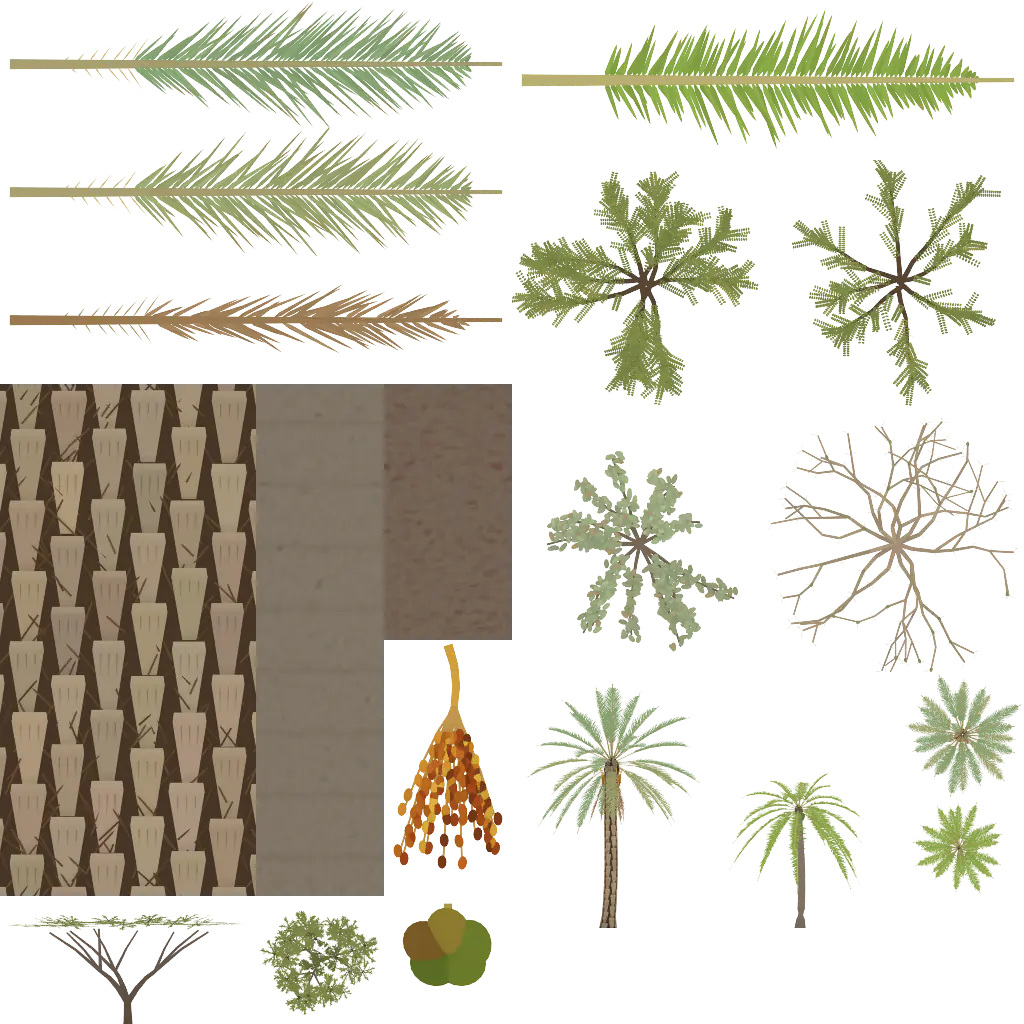
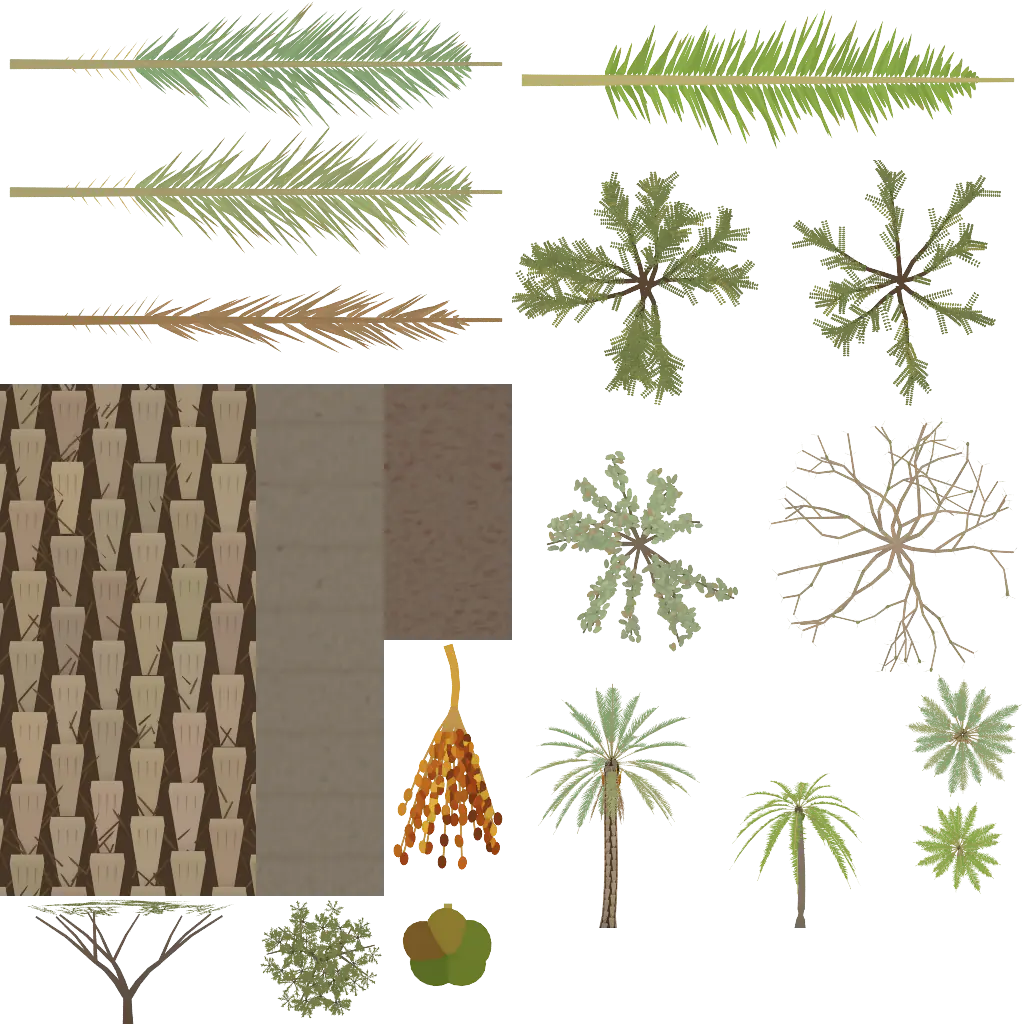
GD3: lighter sun-faded palm greens, an evenly spread flat acacia crown, octagon spray cards (less overdraw)
Claude-Session: https://claude.ai/code/session_01AfPbHWRnbNkqsFSA7HPjiC

Changed region(s): [[0.25, 0.875, 0.375, 1.0], [0.0312, 0.875, 0.2188, 0.9688]]

diff --git a/web/tools/blender/desertveg/desert_veg.py b/web/tools/blender/desertveg/desert_veg.py
@@ -298,7 +298,7 @@ def spray_card(rng, kind):
                 ang2 = math.atan2(dd.y, dd.x) + (rng.random() - 0.5) * 2.2
                 dpin = Vector((math.cos(ang2), math.sin(ang2), 0))
                 Lp = 0.032 + rng.random() * 0.026
-                c = jit(lin(0x7f8c4a), rng, 0.16)
+                c = jit(lin(0x77824c), rng, 0.16)
                 if rng.random() < 0.12:
                     c = mixc(c, lin(0xa09a50), 0.6)
                 npair = 9 + int(rng.random() * 5)
@@ -1053,33 +1053,33 @@ def acacia(lp, rng, H, R, lod, young=False):
     def nrm(p):
         return (p - center).normalized() + Z * 0.6
 
-    # flat crown: clumps of horizontal sprays at the branch tips, a ring of tilted sprays round the rim, a few under
-    per = 3 if lod == 0 else 1
-    for tp in tips:
-        for k in range(per):
-            ang = rng.random() * math.tau
-            c = tp + Vector((math.cos(ang), math.sin(ang), 0)) * (0.05 + rng.random() * 0.08) + Z * (0.045 + rng.random() * 0.02)
-            sz = R * (0.62 + rng.random() * 0.22) * (1.15 if lod else 1.0)
-            rr = rng.random() * math.tau
-            right = Vector((math.cos(rr), math.sin(rr), (rng.random() - 0.5) * 0.15)).normalized()
-            up = Z.cross(right).normalized()
-            card_quad(lp, 'acacia' if (k + int(rng.random() * 2)) % 2 == 0 else 'acacia2', c, right, up, sz, sz, nrm, flex(c) + 0.012, 1.0, 1.0 if k else 0.92)
-    nrim = (12 if not young else 8) if lod == 0 else 6
+    # the flat crown: a thin layer of horizontal sprays spread evenly over the disc (golden spiral), the rim a
+    # little lower, a ring of slightly tilted sprays round the edge and a few darker ones under the layer
+    n = (24 if not young else 12) if lod == 0 else (10 if not young else 6)
+    for i in range(n):
+        f = math.sqrt((i + 0.5) / n)
+        a = i * GOLD + rng.random() * 0.4
+        c = Vector((math.cos(a), math.sin(a), 0)) * (R * 0.82 * f) + Z * (ztop - 0.045 * f * f + (rng.random() - 0.5) * 0.025)
+        sz = R * (0.5 + rng.random() * 0.14) * (1.35 if lod else 1.0)
+        rr = rng.random() * math.tau
+        right = Vector((math.cos(rr), math.sin(rr), (rng.random() - 0.5) * 0.2)).normalized()
+        up = Z.cross(right).normalized()
+        card_quad(lp, 'acacia' if rng.random() < 0.65 else 'acacia2', c, right, up, sz, sz, nrm, flex(c) + 0.012, 1.0, 0.92 + 0.08 * (1 - f))
+    nrim = (10 if not young else 7) if lod == 0 else 5
     for i in range(nrim):
         a = i / nrim * math.tau + rng.random() * 0.3
         d = Vector((math.cos(a), math.sin(a), 0))
-        c = d * (R * (0.85 + rng.random() * 0.15)) + Z * (ztop - 0.02 + (rng.random() - 0.5) * 0.04)
+        c = d * (R * (0.88 + rng.random() * 0.1)) + Z * (ztop - 0.06 + (rng.random() - 0.5) * 0.03)
         side = Vector((-d.y, d.x, 0))
-        up = (d * math.cos(0.38) + Z * math.sin(0.38)).normalized()
-        sz = R * 0.48
-        card_quad(lp, 'acacia2', c, side, up, sz, sz * 0.8, nrm, flex(c) + 0.015, 1.0, 0.9)
+        up = (d * math.cos(0.3) + Z * math.sin(0.3)).normalized()
+        card_quad(lp, 'acacia2', c, side, up, R * 0.42, R * 0.36, nrm, flex(c) + 0.015, 1.0, 0.85)
     if lod == 0:
         for i in range(5 if not young else 3):
             a = rng.random() * math.tau
-            c = Vector((math.cos(a), math.sin(a), 0)) * (R * rng.random() * 0.6) + Z * (ztop - 0.07)
+            c = Vector((math.cos(a), math.sin(a), 0)) * (R * rng.random() * 0.6) + Z * (ztop - 0.085)
             rr = rng.random() * math.tau
             right = Vector((math.cos(rr), math.sin(rr), 0))
-            card_quad(lp, 'acacia', c, right, Z.cross(right), R * 0.7, R * 0.7, nrm, flex(c) + 0.01, 1.0, 0.6)
+            card_quad(lp, 'acacia', c, right, Z.cross(right), R * 0.6, R * 0.6, nrm, flex(c) + 0.01, 1.0, 0.6)
 
 
 def bush(lp, rng, card, R, Hb, lod):
